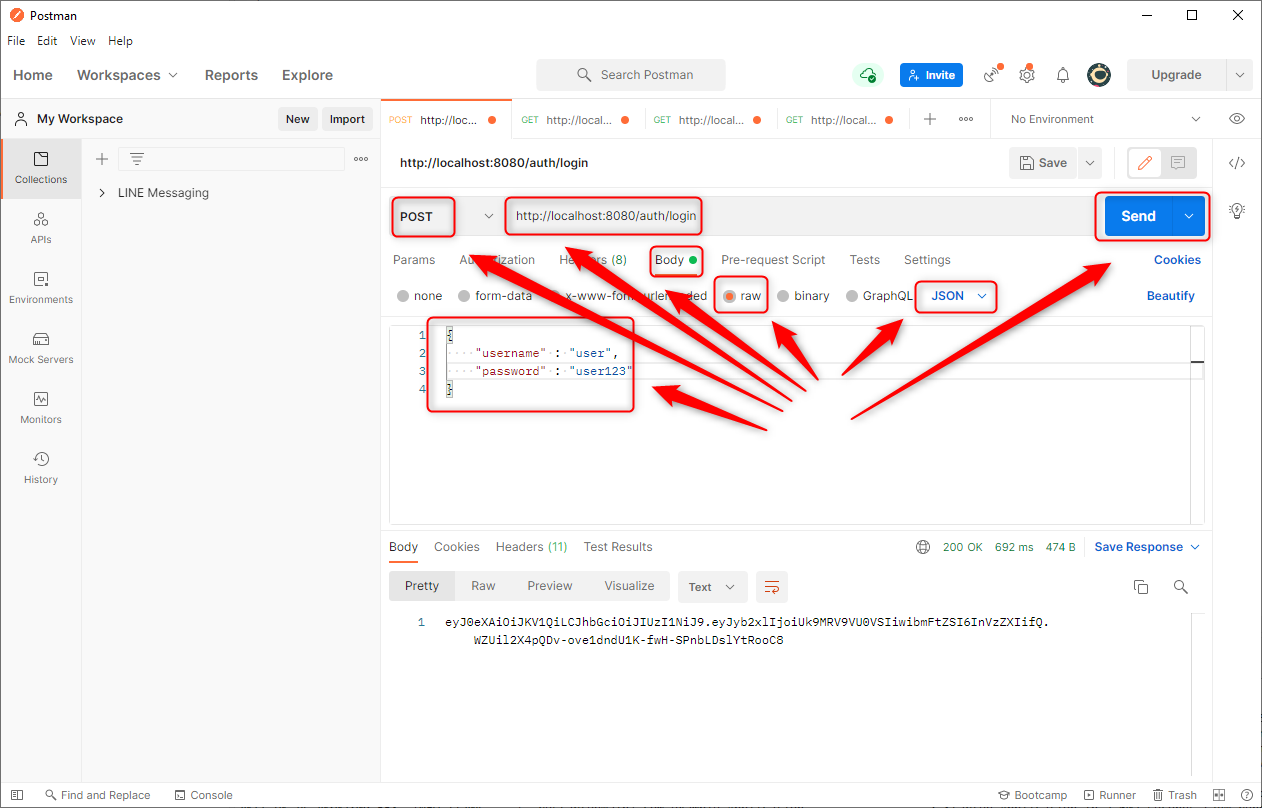
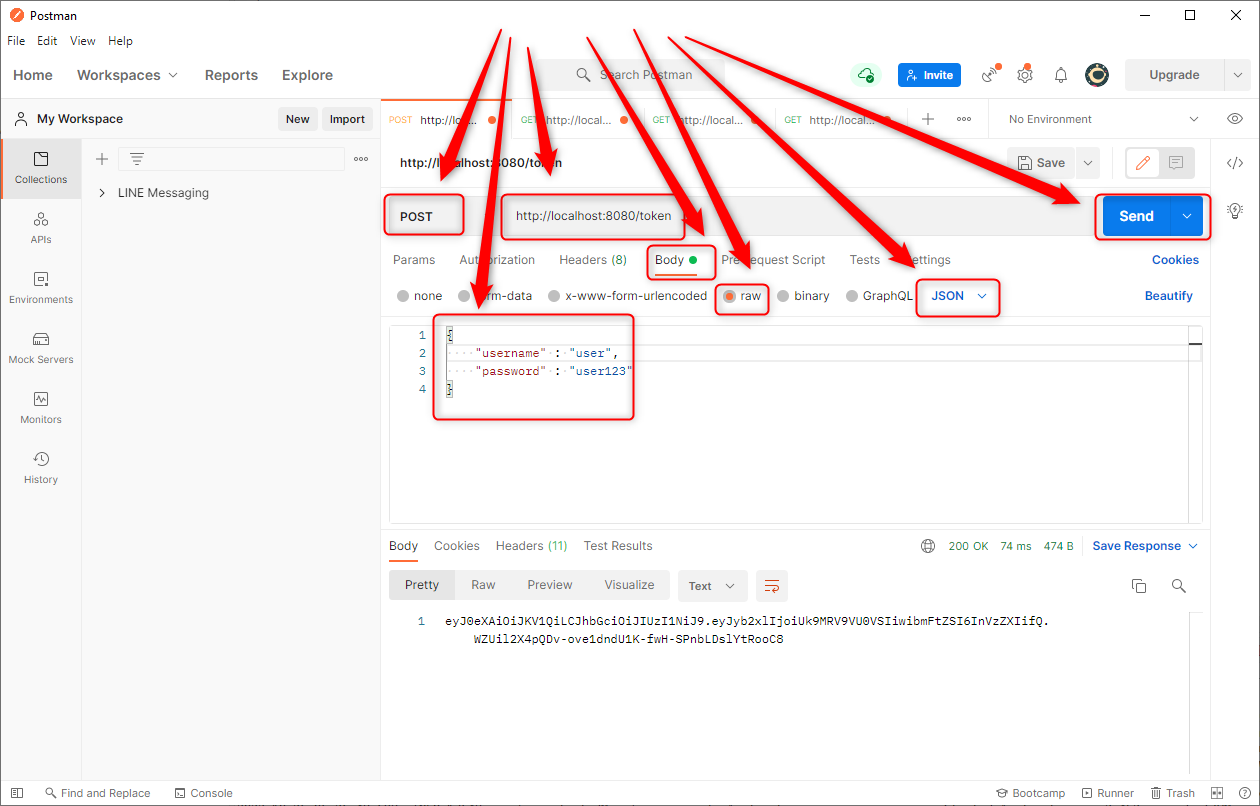
Update project spring-security-oauth2-rest-custom

diff --git a/spring-boot/others/security/authentication-authorization/no-sso/oauth2/authentication/spring-security-oauth2-rest-custom/src/main/java/com/example/controllers/TokenController.java b/spring-boot/others/security/authentication-authorization/no-sso/oauth2/authentication/spring-security-oauth2-rest-custom/src/main/java/com/example/controllers/TokenController.java
@@ -21,7 +21,7 @@ import com.auth0.jwt.algorithms.Algorithm;
 import com.auth0.jwt.exceptions.JWTCreationException;
 
 @RestController
-public class LoginController {
+public class TokenController {
 	
 	@Value("${token.secret.key}")
 	private String tokenSecretKey;
@@ -29,12 +29,12 @@ public class LoginController {
 	private final AuthenticationManager authorizationManager;
 	
 	@Autowired
-	public LoginController(AuthenticationManager authorizationManager) {
+	public TokenController(AuthenticationManager authorizationManager) {
 		this.authorizationManager = authorizationManager;
 	}
 
-	@PostMapping("/auth/login")
-    public String login(@RequestBody AuthRequestJson authRequest) throws ServletException {
+	@PostMapping("/token")
+    public String token(@RequestBody AuthRequestJson authRequest) throws ServletException {
 		
 		String token = null;
 		

diff --git a/spring-boot/others/security/authentication-authorization/no-sso/oauth2/authentication/spring-security-oauth2-rest-custom/README.md b/spring-boot/others/security/authentication-authorization/no-sso/oauth2/authentication/spring-security-oauth2-rest-custom/README.md
@@ -42,11 +42,11 @@ USAGE
 
 Usage steps:
 1. Start application with `mvn spring-boot:run`
-1. Send POST request (JSON with credentials: "username" : "user", "password" : "user123") with Postman to URL `http://localhost:8080/auth/login`
+1. Send POST request (JSON with credentials: "username" : "user", "password" : "user123") with Postman to URL `http://localhost:8080/token`
 1. Send GET request with Postman to URL `http://localhost:8080/`
 1. Send GET request (with token as Bearer Authorization) with Postman to URL `http://localhost:8080/user`
 1. Send GET request (with token as Bearer Authorization)  with Postman to URL `http://localhost:8080/admin`
-1. Send POST request (JSON with credentials: "username" : "admin", "password" : "admin123") with Postman to URL `http://localhost:8080/auth/login`
+1. Send POST request (JSON with credentials: "username" : "admin", "password" : "admin123") with Postman to URL `http://localhost:8080/token`
 1. Send GET request with Postman to URL `http://localhost:8080/`
 1. Send GET request (with token as Bearer Authorization)  with Postman to URL `http://localhost:8080/user`
 1. Send GET request (with token as Bearer Authorization)  with Postman to URL `http://localhost:8080/admin`
